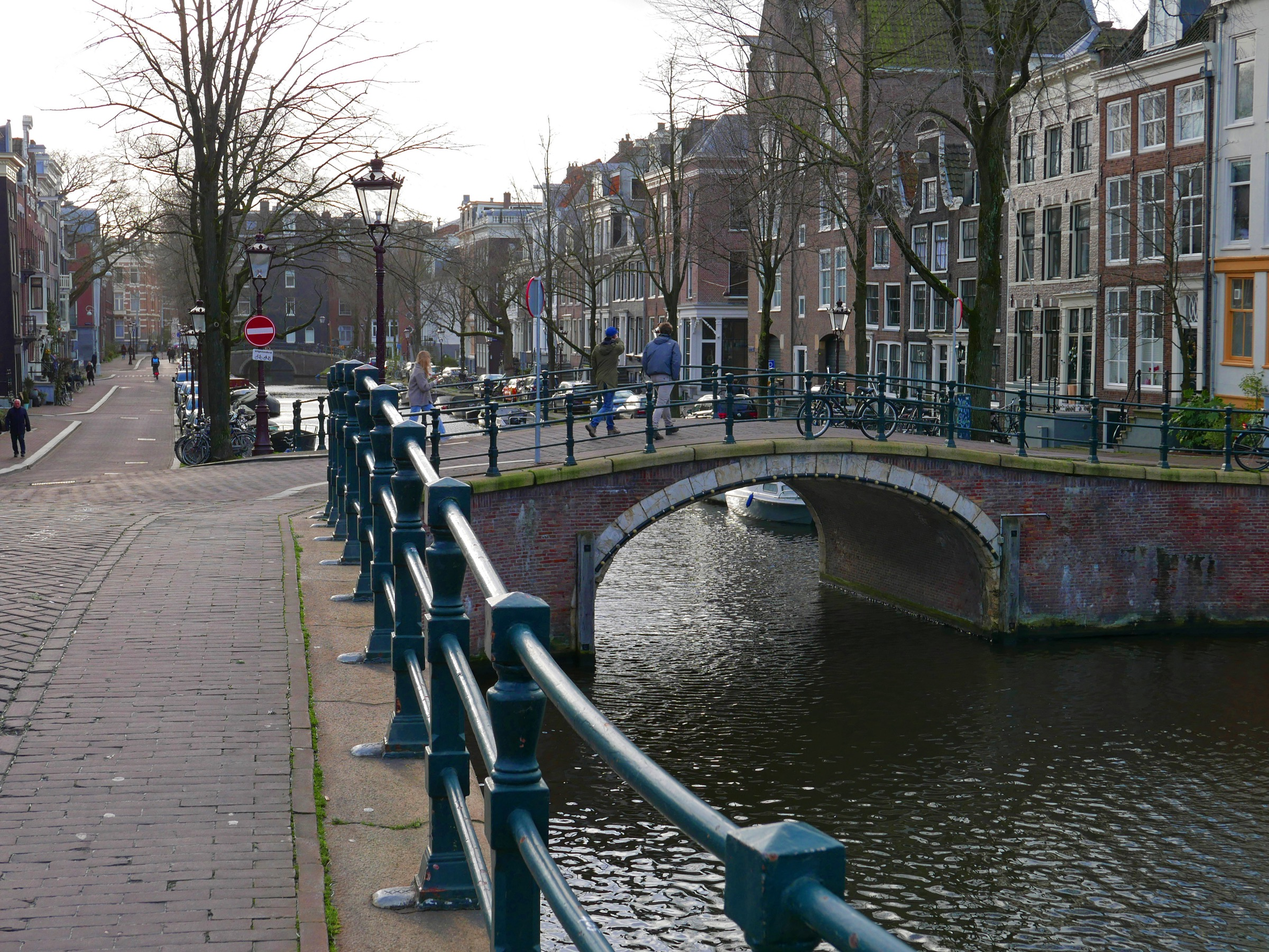
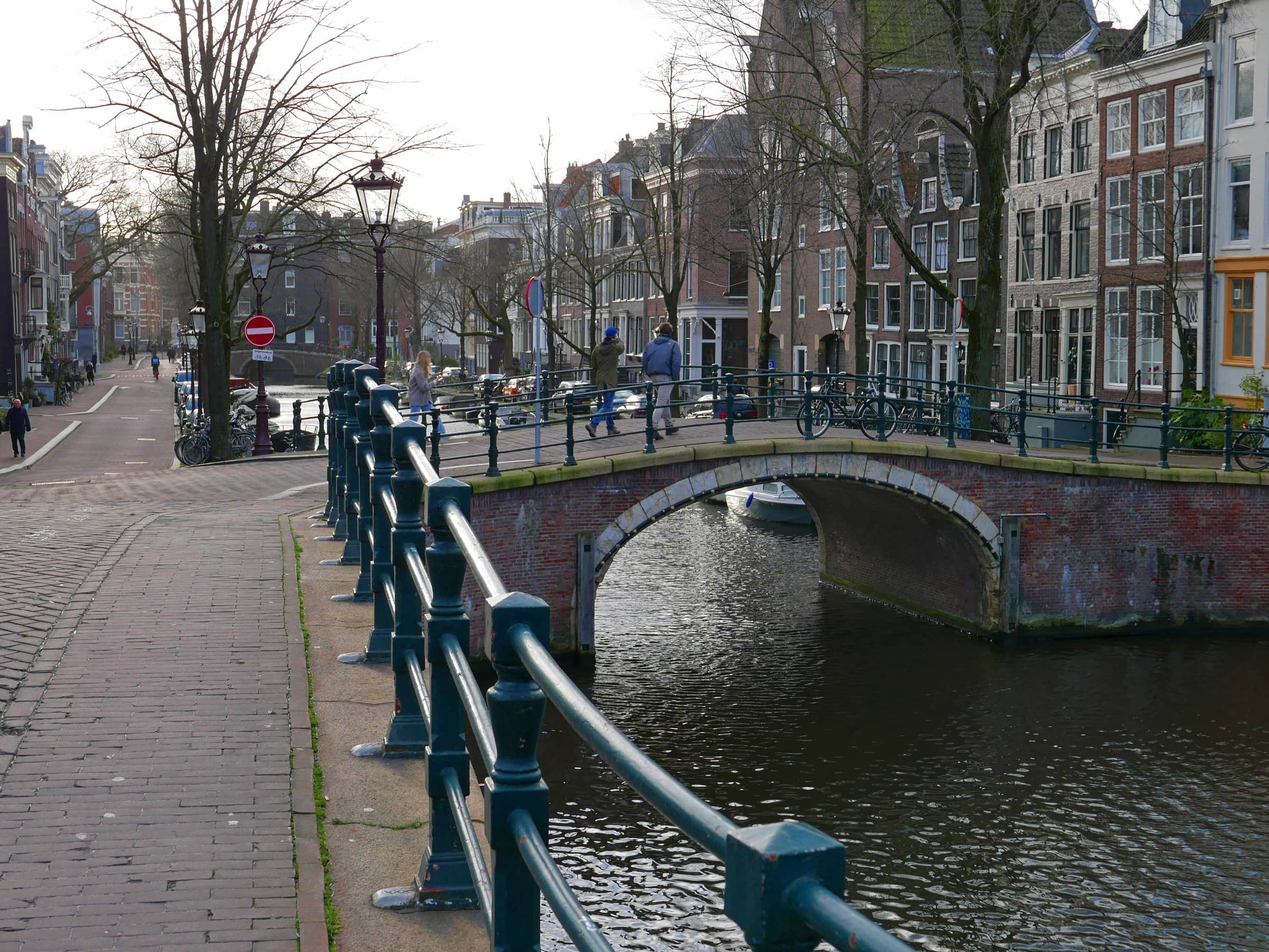
First load: setup backdrop 1.4 MB -> 545 KB, maplibre pinned, tiles preconnected
- setup-backdrop.jpg re-encoded with mozjpeg q68 at the same 2400x1800,
  EXIF stripped: visually identical at 1:1 crops, 855 KB less on the wire
  and the setup hero lands ~3.4 s sooner at 20 Mbit/s.
- maplibre-gl pinned to 5.24.0 (node_modules and explore.html): the
  unpinned @5 cost a render-blocking unpkg 302 per file (~170 ms each).
  The offline e2e helper matches pinned and unpinned URLs.
- preconnect to tiles.openfreemap.org, as explore.html does.
- scripts/preview/first-load.ts: cold-load measurement (fresh context,
  CDP encodedDataLength, Resource Timing render-blocking, optional
  --throttle mbit,rtt) used for docs/preview/first-load-2026-10-17.md.

Changed region(s): [[0.2188, 0.1867, 0.25, 0.2178], [0.1875, 0.1556, 0.2188, 0.1867], [0.0938, 0.2178, 0.125, 0.2489]]

diff --git a/scripts/preview/first-load.ts b/scripts/preview/first-load.ts
@@ -1,0 +1,200 @@
+/**
+ * Cold first-load measurement of the assembled Canal Recall site (desktop).
+ *
+ *   npm run build && node scripts/assemble-canalrecall-site.mjs
+ *   npx firebase-tools@15 serve --only hosting:canalrecall --port 4471
+ *   node --import tsx scripts/preview/first-load.ts --base http://localhost:4471 --runs 3 --out /tmp/first-load.json
+ *
+ * Each run is a fresh browser context (empty HTTP cache, no storage) on the
+ * Playwright "Desktop Chrome" profile at 1440×900. Bytes are CDP
+ * `encodedDataLength` (what crossed the wire, br/gzip as served, headers
+ * included). Request time is requestWillBeSent → loadingFinished. Render
+ * blocking is Chrome's own `renderBlockingStatus` from Resource Timing.
+ *
+ * /ride: "setup visible" is the first frame where #route-card has a laid-out
+ * box; the default route (seeded Math.random) is then submitted at once and
+ * "route started" is the first frame with the game in RACING (state 4).
+ * `--throttle 20,40` adds CDP network emulation (20 Mbit/s down, 40 ms RTT).
+ * / and /explore: FCP, LCP and load, with bytes up to network quiet.
+ */
+import { chromium, devices, type CDPSession, type Page } from '@playwright/test';
+import { existsSync, writeFileSync } from 'node:fs';
+
+const arg = (name: string, fallback: string) => {
+  const i = process.argv.indexOf(`--${name}`);
+  return i > 0 ? process.argv[i + 1] : fallback;
+};
+const BASE = arg('base', 'http://localhost:4471');
+const RUNS = Number(arg('runs', '3'));
+const OUT = arg('out', '');
+const PAGES = arg('pages', '/ride,/,/explore').split(',');
+// `--throttle 20,40` emulates a 20 Mbit/s, 40 ms RTT desktop connection; localhost alone has neither.
+const THROTTLE = arg('throttle', '').split(',').filter(Boolean).map(Number);
+const localChrome = '/Applications/Google Chrome.app/Contents/MacOS/Google Chrome';
+
+interface Req {
+  id: string; url: string; type: string; start: number; end?: number; bytes: number;
+  status?: number; encoding?: string; failed?: boolean; fromCache?: boolean;
+}
+
+function track(cdp: CDPSession) {
+  const reqs = new Map<string, Req>();
+  cdp.on('Network.requestWillBeSent', e => {
+    // Redirects reuse the id: keep the first start, count the hop as its own row.
+    const prior = reqs.get(e.requestId);
+    if (prior && e.redirectResponse) reqs.set(`${e.requestId}:r${prior.start}`, { ...prior, end: e.timestamp, status: e.redirectResponse.status });
+    reqs.set(e.requestId, { id: e.requestId, url: e.request.url, type: e.type ?? '', start: prior?.start ?? e.timestamp, bytes: 0 });
+  });
+  cdp.on('Network.responseReceived', e => {
+    const r = reqs.get(e.requestId);
+    if (!r) return;
+    r.status = e.response.status;
+    const h = e.response.headers as Record<string, string>;
+    r.encoding = h['content-encoding'] ?? h['Content-Encoding'] ?? '';
+    r.fromCache = e.response.fromDiskCache || e.response.fromServiceWorker;
+  });
+  cdp.on('Network.loadingFinished', e => {
+    const r = reqs.get(e.requestId);
+    if (!r) return;
+    r.end = e.timestamp;
+    r.bytes = e.encodedDataLength;
+  });
+  cdp.on('Network.loadingFailed', e => {
+    const r = reqs.get(e.requestId);
+    if (!r) return;
+    r.end = e.timestamp;
+    r.failed = true;
+  });
+  return reqs;
+}
+
+// A string, not a function: tsx's keepNames would inject `__name` helpers the page lacks.
+const INIT = `(() => {
+  const w = window;
+  w.__fl = {};
+  new PerformanceObserver(list => {
+    for (const e of list.getEntries()) if (e.name === 'first-contentful-paint') w.__fl.fcp = e.startTime;
+  }).observe({ type: 'paint', buffered: true });
+  new PerformanceObserver(list => {
+    for (const e of list.getEntries()) w.__fl.lcp = e.startTime;
+  }).observe({ type: 'largest-contentful-paint', buffered: true });
+  const poll = () => {
+    const card = document.getElementById('route-card');
+    if (w.__fl.setup == null && card) {
+      const box = card.getBoundingClientRect();
+      if (box.width > 0 && box.height > 0 && getComputedStyle(card).visibility !== 'hidden') w.__fl.setup = performance.now();
+    }
+    const game = w.canalRecallGame;
+    if (w.__fl.racing == null && game && game.state === 4) w.__fl.racing = performance.now();
+    if (w.__fl.racing == null) requestAnimationFrame(poll);
+  };
+  requestAnimationFrame(poll);
+  let seed = 0x5eed1234;
+  Math.random = () => { seed = (seed * 1664525 + 1013904223) >>> 0; return seed / 0x100000000; };
+})();`;
+
+async function quiet(page: Page, reqs: Map<string, Req>, quietMs = 2000, capMs = 30_000) {
+  const t0 = Date.now();
+  let last = -1, stableSince = Date.now();
+  while (Date.now() - t0 < capMs) {
+    const open = [...reqs.values()].filter(r => r.end == null).length;
+    const n = reqs.size;
+    if (open === 0 && n === last) { if (Date.now() - stableSince > quietMs) return; } else { stableSince = Date.now(); last = n; }
+    await page.waitForTimeout(200);
+  }
+}
+
+const summarise = (reqs: Req[], navStart: number, until?: number) => {
+  const rows = reqs.filter(r => r.start <= (until ?? Infinity));
+  return {
+    requests: rows.length,
+    bytes: rows.reduce((s, r) => s + r.bytes, 0),
+    rows: rows.map(r => ({ url: r.url, type: r.type, bytes: r.bytes, ms: r.end ? Math.round((r.end - r.start) * 1000) : null,
+      startMs: Math.round((r.start - navStart) * 1000), status: r.status, encoding: r.encoding, failed: !!r.failed })),
+  };
+};
+
+async function measure(path: string) {
+  const browser = await chromium.launch({ executablePath: existsSync(localChrome) ? localChrome : undefined });
+  const context = await browser.newContext({ ...devices['Desktop Chrome'], viewport: { width: 1440, height: 900 } });
+  const page = await context.newPage();
+  await page.addInitScript({ content: INIT });
+  const cdp = await context.newCDPSession(page);
+  await cdp.send('Network.enable');
+  await cdp.send('Network.setCacheDisabled', { cacheDisabled: false });
+  if (THROTTLE.length === 2) {
+    const [mbit, rtt] = THROTTLE;
+    await cdp.send('Network.emulateNetworkConditions', { offline: false, latency: rtt, downloadThroughput: mbit * 125_000, uploadThroughput: 5 * 125_000 });
+  }
+  const reqs = track(cdp);
+  const wallStart = Date.now();
+  await page.goto(`${BASE}${path}`, { waitUntil: 'commit' });
+  const navStart = Math.min(...[...reqs.values()].map(r => r.start));
+  const result: Record<string, unknown> = { path };
+  if (path === '/ride') {
+    await page.waitForFunction(() => (window as unknown as { __fl: { setup?: number } }).__fl.setup != null, null, { timeout: 120_000 });
+    const setupMs = await page.evaluate(() => (window as unknown as { __fl: { setup: number } }).__fl.setup);
+    const atSetup = summarise([...reqs.values()], navStart, navStart + setupMs / 1000);
+    await page.locator('#route-card').evaluate((form: HTMLFormElement) => form.requestSubmit());
+    await page.waitForFunction(() => (window as unknown as { __fl: { racing?: number } }).__fl.racing != null, null, { timeout: 240_000 });
+    const fl = await page.evaluate(() => (window as unknown as { __fl: Record<string, number> }).__fl);
+    const atStart = summarise([...reqs.values()], navStart, navStart + fl.racing / 1000);
+    // Everything the first ride pulls in before the network goes quiet (2 s), capped at 30 s.
+    await quiet(page, reqs);
+    const total = summarise([...reqs.values()], navStart);
+    Object.assign(result, { fcp: fl.fcp, lcp: fl.lcp, setupMs: fl.setup, racingMs: fl.racing,
+      setupRequests: atSetup.requests, setupBytes: atSetup.bytes, startRequests: atStart.requests, startBytes: atStart.bytes,
+      requests: total.requests, bytes: total.bytes, rows: total.rows });
+  } else {
+    await page.waitForLoadState('load');
+    await quiet(page, reqs);
+    const fl = await page.evaluate(() => ({ ...(window as unknown as { __fl: Record<string, number> }).__fl,
+      load: performance.getEntriesByType('navigation')[0] ? (performance.getEntriesByType('navigation')[0] as PerformanceNavigationTiming).loadEventEnd : 0 }));
+    const all = summarise([...reqs.values()], navStart);
+    Object.assign(result, { fcp: fl.fcp, lcp: fl.lcp, load: fl.load, requests: all.requests, bytes: all.bytes, rows: all.rows });
+  }
+  const blocking = await page.evaluate(() => performance.getEntriesByType('resource')
+    .filter(e => (e as PerformanceResourceTiming & { renderBlockingStatus?: string }).renderBlockingStatus === 'blocking')
+    .map(e => ({ url: e.name, ms: Math.round(e.duration), transfer: (e as PerformanceResourceTiming).transferSize })));
+  result.renderBlocking = blocking;
+  result.wallMs = Date.now() - wallStart;
+  await browser.close();
+  return result;
+}
+
+const median = (xs: number[]) => { const s = [...xs].sort((a, b) => a - b); return s[Math.floor(s.length / 2)]; };
+
+const all: Record<string, Record<string, unknown>[]> = {};
+for (const path of PAGES) {
+  all[path] = [];
+  for (let i = 0; i < RUNS; i++) {
+    const r = await measure(path);
+    all[path].push(r);
+    const { rows: _rows, renderBlocking: _rb, ...head } = r as Record<string, unknown>;
+    console.log(JSON.stringify(head));
+  }
+}
+const keys = ['fcp', 'lcp', 'load', 'setupMs', 'racingMs', 'setupRequests', 'setupBytes', 'startRequests', 'startBytes', 'requests', 'bytes'];
+const medians: Record<string, Record<string, number>> = {};
+for (const [path, runs] of Object.entries(all)) {
+  medians[path] = {};
+  for (const k of keys) {
+    const xs = runs.map(r => r[k]).filter((x): x is number => typeof x === 'number');
+    if (xs.length) medians[path][k] = Math.round(median(xs));
+  }
+}
+console.log('MEDIANS', JSON.stringify(medians, null, 1));
+// Top 15 by bytes and by time, from the median-bytes run of each page.
+for (const [path, runs] of Object.entries(all)) {
+  const by = 'bytes';
+  const mid = [...runs].sort((a, b) => (a[by] as number) - (b[by] as number))[Math.floor(runs.length / 2)];
+  const rows = mid.rows as Array<{ url: string; bytes: number; ms: number | null; encoding?: string; startMs: number }>;
+  const short = (u: string) => u.replace(BASE, '').slice(0, 110);
+  console.log(`\nTOP BYTES ${path}`);
+  for (const r of [...rows].sort((a, b) => b.bytes - a.bytes).slice(0, 15)) console.log(`${(r.bytes / 1024).toFixed(1)} KB\t${r.ms ?? '-'} ms\t@${r.startMs}\t${r.encoding || '-'}\t${short(r.url)}`);
+  console.log(`TOP TIME ${path}`);
+  for (const r of [...rows].sort((a, b) => (b.ms ?? 0) - (a.ms ?? 0)).slice(0, 15)) console.log(`${r.ms ?? '-'} ms\t${(r.bytes / 1024).toFixed(1)} KB\t@${r.startMs}\t${short(r.url)}`);
+  console.log(`RENDER-BLOCKING ${path}`);
+  for (const b of mid.renderBlocking as Array<{ url: string; ms: number; transfer: number }>) console.log(`${b.ms} ms\t${(b.transfer / 1024).toFixed(1)} KB\t${short(b.url)}`);
+}
+if (OUT) writeFileSync(OUT, JSON.stringify({ base: BASE, runs: RUNS, medians, all }, null, 1));

diff --git a/tests/e2e/helpers.ts b/tests/e2e/helpers.ts
@@ -80,8 +80,8 @@ export async function openRoute(page: Page, options: OpenRouteOptions = {}): Pro
  */
 export async function serveMapLibreOffline(page: Page): Promise<void> {
   const dist = resolve(process.cwd(), 'node_modules/maplibre-gl/dist');
-  await page.route(/unpkg\.com\/maplibre-gl@5\/dist\/maplibre-gl\.js/, route => route.fulfill({ path: resolve(dist, 'maplibre-gl.js'), contentType: 'application/javascript' }));
-  await page.route(/unpkg\.com\/maplibre-gl@5\/dist\/maplibre-gl\.css/, route => route.fulfill({ path: resolve(dist, 'maplibre-gl.css'), contentType: 'text/css' }));
+  await page.route(/unpkg\.com\/maplibre-gl@5(\.[0-9.]+)?\/dist\/maplibre-gl\.js/, route => route.fulfill({ path: resolve(dist, 'maplibre-gl.js'), contentType: 'application/javascript' }));
+  await page.route(/unpkg\.com\/maplibre-gl@5(\.[0-9.]+)?\/dist\/maplibre-gl\.css/, route => route.fulfill({ path: resolve(dist, 'maplibre-gl.css'), contentType: 'text/css' }));
   await page.route(/tiles\.openfreemap\.org/, route => route.fulfill({
     contentType: 'application/json',
     body: JSON.stringify({ version: 8, name: 'offline', sources: {}, layers: [{ id: 'background', type: 'background', paint: { 'background-color': '#ece6d6' } }] }),

diff --git a/public/canal-drive/index.html b/public/canal-drive/index.html
@@ -25,8 +25,10 @@
 <link rel="preconnect" href="https://fonts.gstatic.com" crossorigin>
 <link href="https://fonts.googleapis.com/css2?family=Barlow+Condensed:wght@500;600;700;800&family=JetBrains+Mono:wght@500;700&display=swap" rel="stylesheet">
 <link href="css/enamel.css" rel="stylesheet">
-<link href="https://unpkg.com/maplibre-gl@5/dist/maplibre-gl.css" rel="stylesheet">
-<script src="https://unpkg.com/maplibre-gl@5/dist/maplibre-gl.js"></script>
+<!-- Pinned (as explore.html is): an unpinned `@5` cost a render-blocking unpkg redirect per file. -->
+<link rel="preconnect" href="https://tiles.openfreemap.org" crossorigin>
+<link href="https://unpkg.com/maplibre-gl@5.24.0/dist/maplibre-gl.css" rel="stylesheet">
+<script src="https://unpkg.com/maplibre-gl@5.24.0/dist/maplibre-gl.js"></script>
 <style>
 #google-tiles-attribution{position:fixed;left:8px;bottom:6px;z-index:40;max-width:60vw;
   font:11px/1.35 system-ui,sans-serif;color:#f2f6f8;text-shadow:0 1px 3px rgba(0,0,0,.85);
